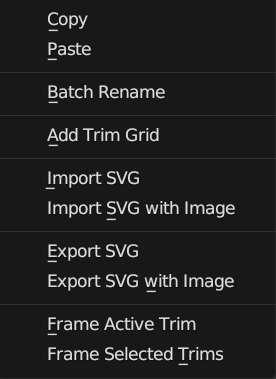
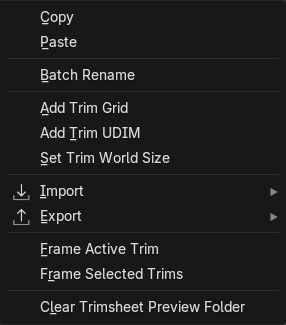
trim sheet menu

diff --git a/mkdocs/trimsheet_creation.md b/mkdocs/trimsheet_creation.md
@@ -42,6 +42,39 @@ There is exactly one active trim sheet at any time in certain Blender editor (UV
         ![](img/screen/trimsheet/base_color_image.png)
 
 ## Trim Sheet Creation
+Use ZenUV tool to create trims in UV Editor
+
+| ![](img/screen/trimsheet/trimsheet_tool_create.png) |
+|---|
+| |
+
+### Draw Trim in UV Editor
+There is an option to draw a trim using mouse:
+
+1. Activate ZenUV tool
+2. Select tool category "Trims"
+3. Select tool mode "Create"
+
+| ![](img/screen/trimsheet/create_trims.gif) |
+|---|
+| |
+
+### Trims Snapping for Creation and Resizing
+Snapping lets you easily align trims. It can be toggled by clicking the magnet icon in the ZenUV tool header
+
+| ![](img/screen/trimsheet/trims_snapping.png) |
+|---|
+| |
+
+| Snap Mode | Description |
+|---|---|
+| Pixels | Trim is snapped to image pixels if image is active in UV Editor |
+| Grid | Trim is snapped to UV Grid |
+| Trims | Trim is snapped to other trim borders |
+
+| ![](img/screen/trimsheet/trims_snapping.gif) |
+|---|
+| |
 
 ### Trims List
 This control is useful to manage lists of trims. In the center of its area you can select, deselect, rename trims. On the right of the list view are additional buttons and button to call the additional popup menu.
@@ -101,11 +134,49 @@ Adds a new item.
 ### Remove
 Removes the selected item.
 
+### Duplicate
+Duplicates active or selected trim
+
+| Option | Descripton |
+|---|---|
+| Ignore Color | Does not duplicate trim color settings |
+| Clear Selection | Clear selection from source trims after duplicating |
+
 ### Menu
 A menu with operators e.g. copy paste, or operations on all items.
 
 !!! Menu
     ![](img/screen/trimsheet/trim_menu.png)
+
+#### Copy Trims to Clipboard
+Copy [active](#active-trim), [selected](#selected-trims) or [all trims](#trims-list) to clipboard
+
+#### Paste Trims from Clipboard
+| Mode | Description |
+|---|---|
+| Clear | Clear all trims before paste operation |
+| Add | Add trims to the end of trim sheet |
+| Replace | Add new trims and replace trims with the same name |
+
+#### Batch Rename
+Can rename many trims at once. This uses a pop-up dialog with operations and their options to change the name. These actions are applied in order, from first to last in a trim sheet.
+
+![](img/screen/trimsheet/trim_batch_rename.png)
+
+#### Add Trim Grid
+Create grid of trims inside active, selected trims, from zero coordinates or 2D cursor position
+
+#### Add Trim UDIM
+Creates trims in positions and with UDIM tile sizes
+
+#### Set Trim World Size
+Set trim 'World Size' property based on texture size. Works on selected trims
+
+#### Frame Trim
+Moves view to active or selected trims center in UV editor
+
+#### Clear Trimshet Preview Folder
+Clear folder where trimsheet preview temporary icons are stored
 
 ### Move (up/down arrow icon)
 Moves the selected item up/down one position.
@@ -173,6 +244,12 @@ Match trim rotation
 
 ### Align To
 Align to remembered directions in Fit, Align operations
+
+### World Size
+Width and height of trim in [UV world size calculation units](#units)
+
+### Units
+UV world size calculation units
 
 ### Tags
 Trim tags

diff --git a/mkdocs/transform_tool.md b/mkdocs/transform_tool.md
@@ -151,8 +151,8 @@ Limit transforms by active Trim.
 
 ![Transform Lock](img/screen/transform_tool/tt_transform_lock.gif)
 
-### Drug
-Choose the tool when Drug.
+### Drag
+Choose the tool when Drag.
 
 - **Active Tool**. Use Active tool.
 - **Tweak**. Use Tweak tool.
